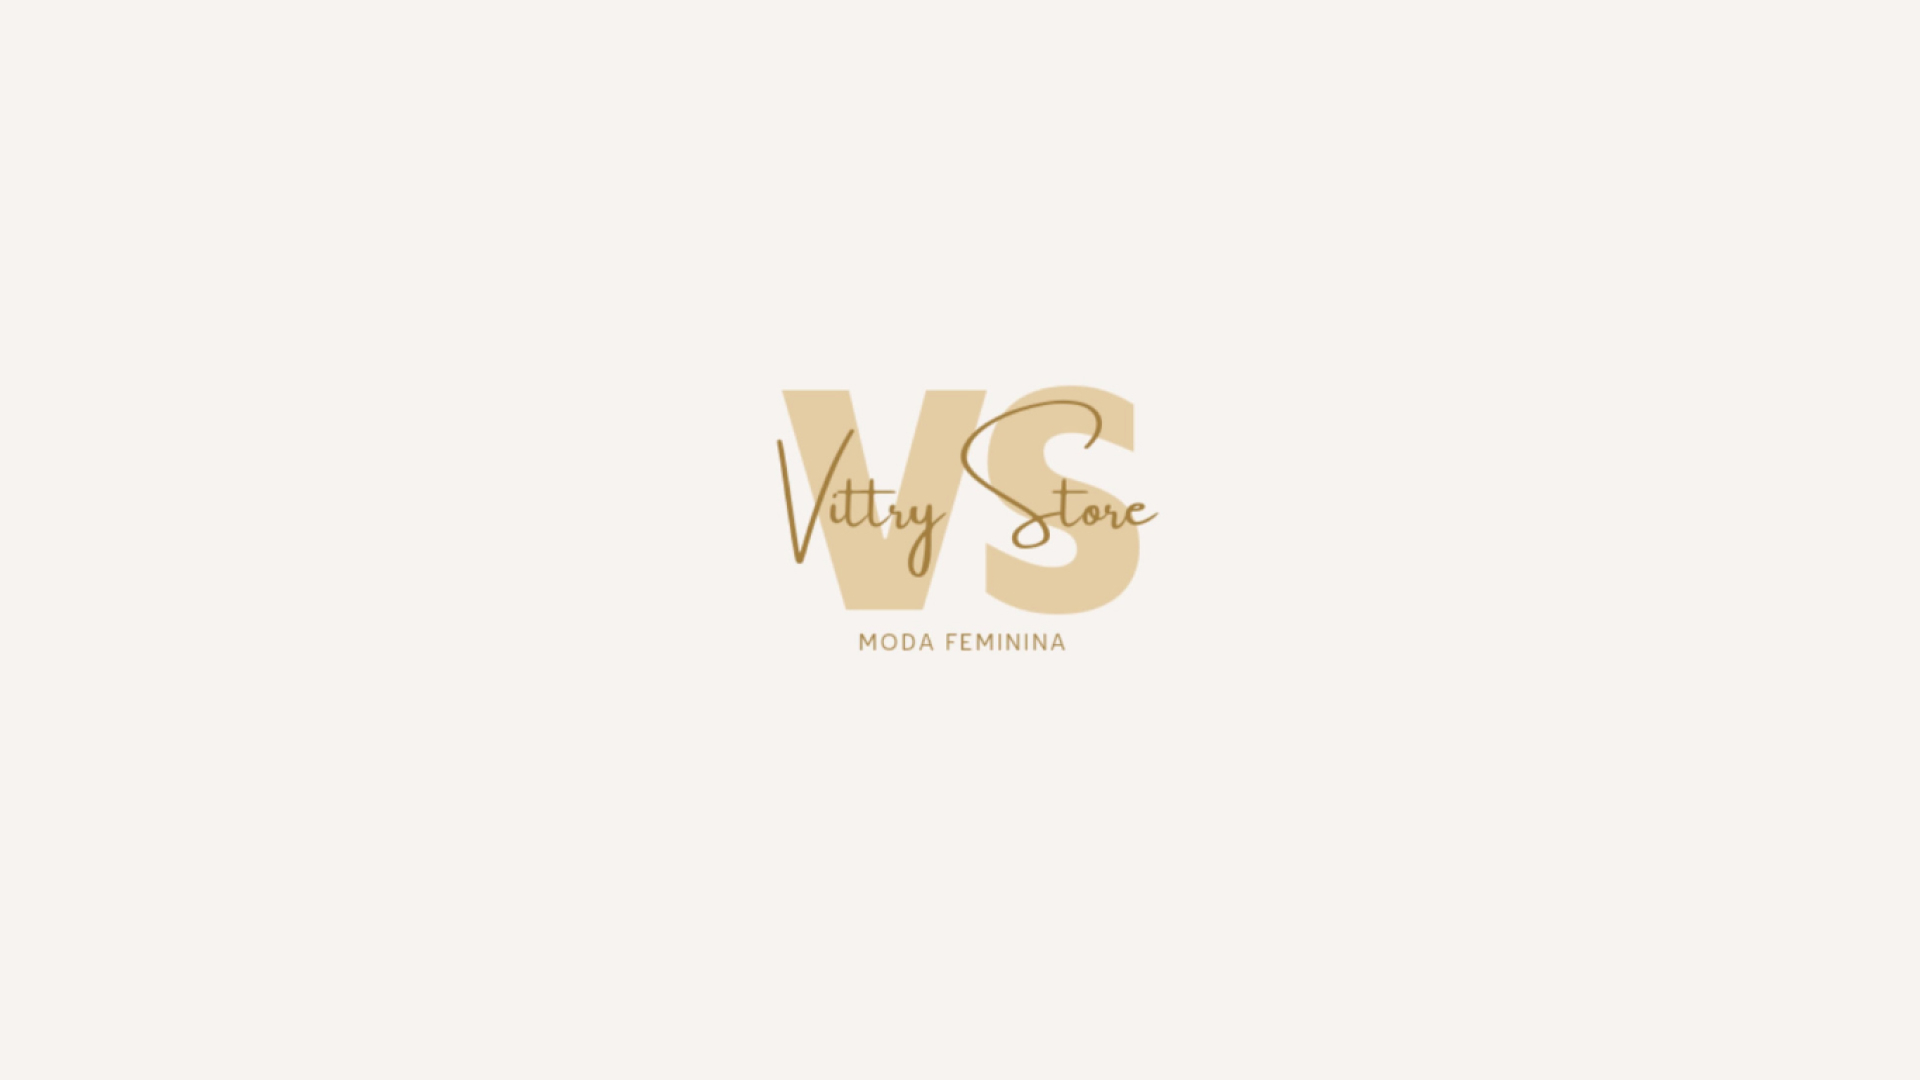
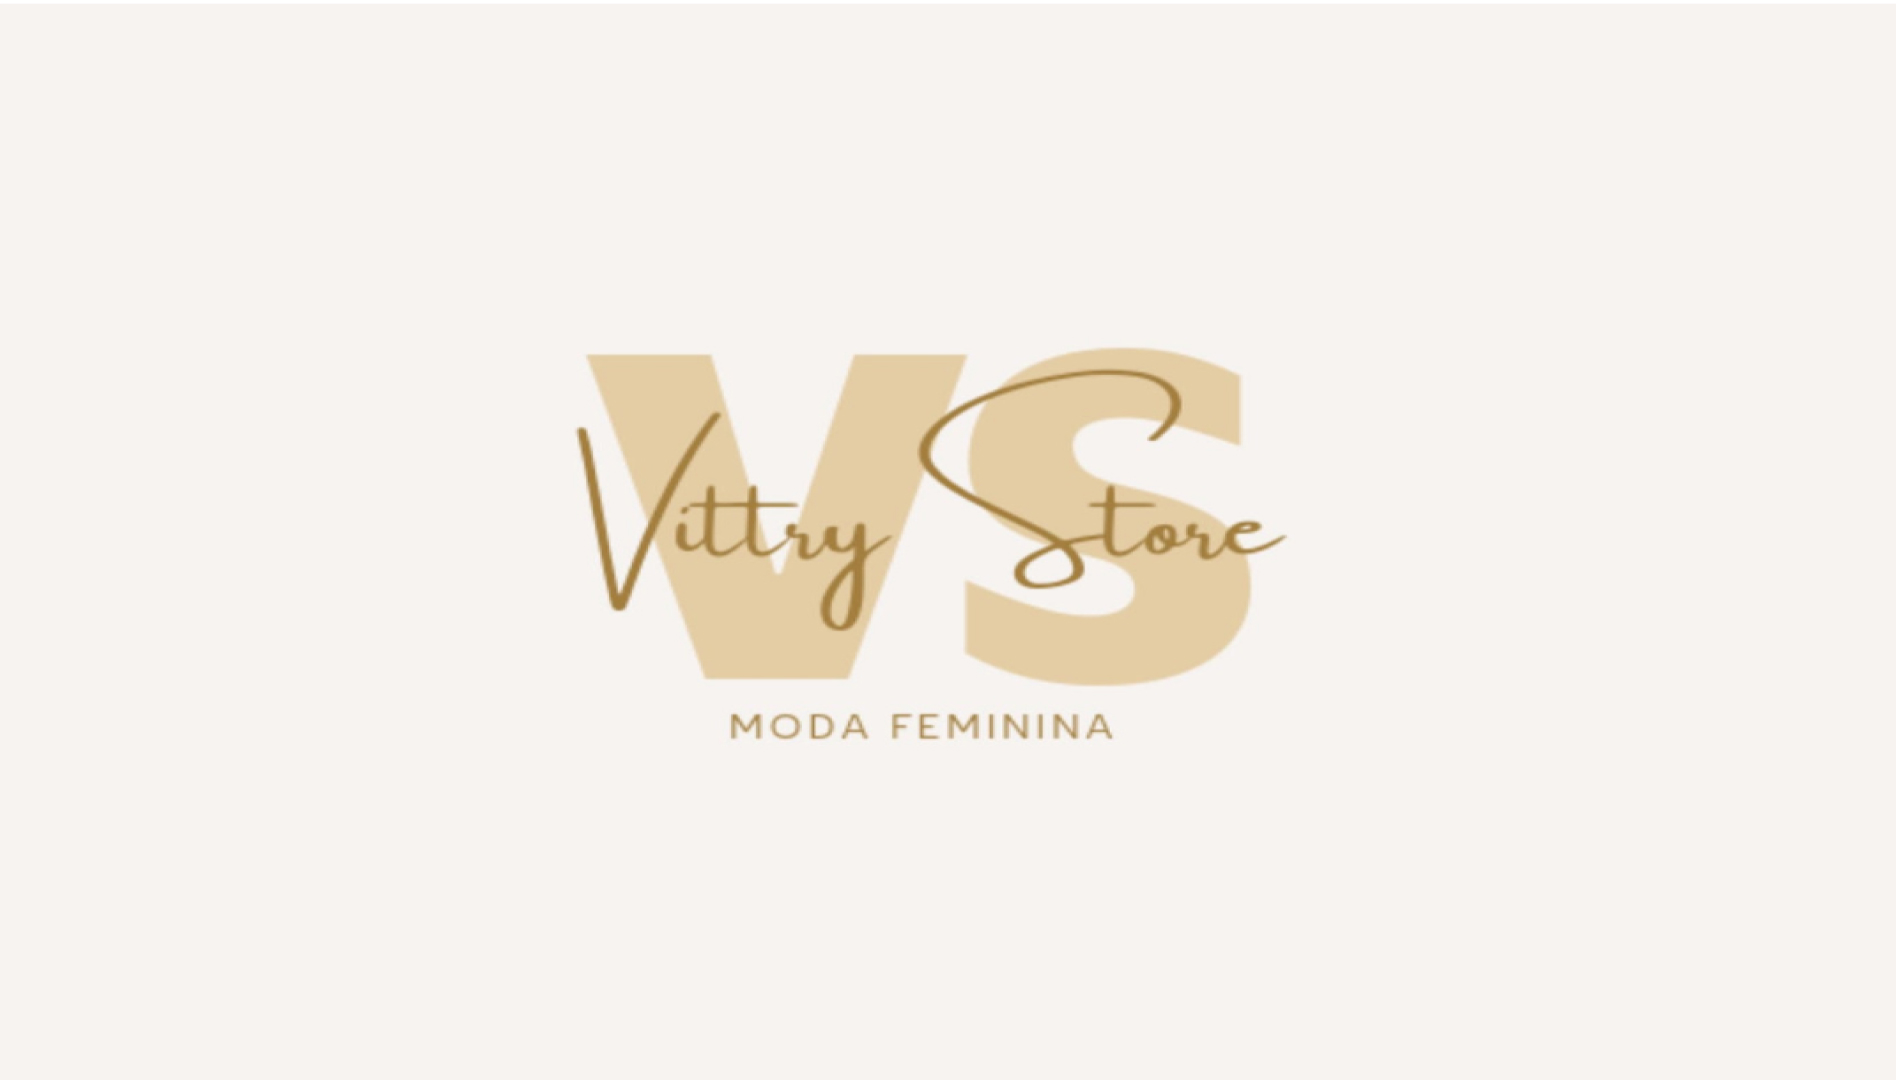
changer sponsors

Changed region(s): [[0.2801, 0.3056, 0.6846, 0.7028]]

diff --git a/index.html b/index.html
@@ -93,11 +93,11 @@
           </div>
 
           <div class="swiper-slide">
-            <img src="src/assets/caisTech2023/patrocinadores/vittry_store.png" alt="">
+            <img src="src/assets/caisTech2023/patrocinadores/vittry_store.jpg" alt="">
           </div>
 
           <div class="swiper-slide">
-            <img src="src/assets/caisTech2023/patrocinadores/Arte_patrocinio_servicar_feed.jpg" alt="">
+            <img src="src/assets/caisTech2023/patrocinadores/serv_car.jpg" alt="">
           </div>
 
         </div>
